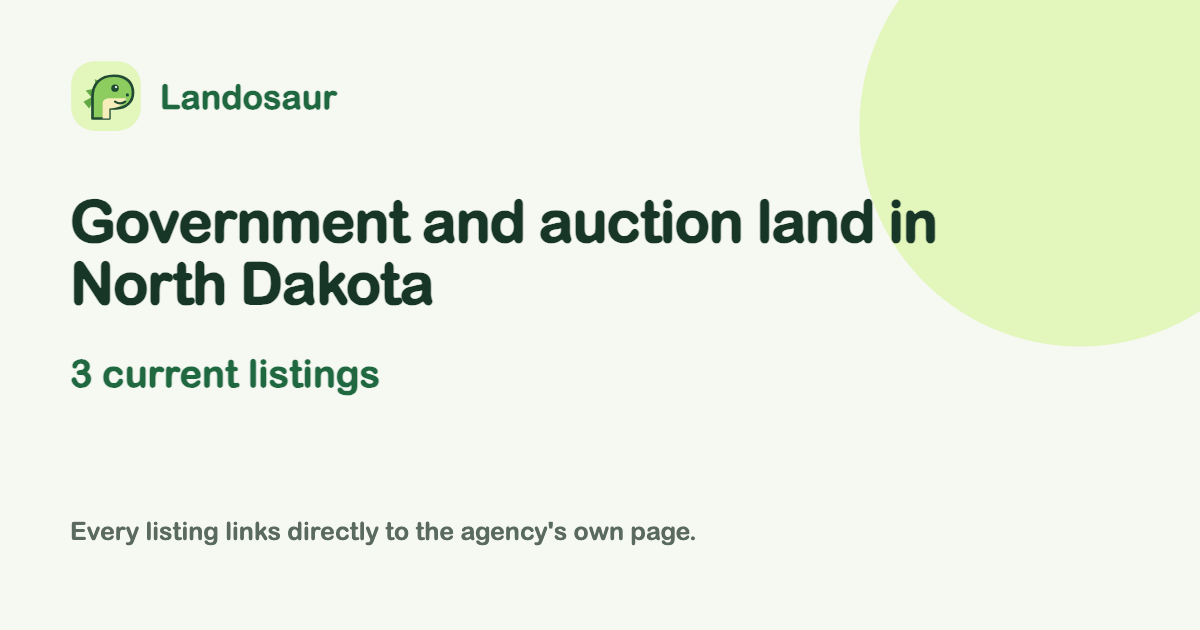
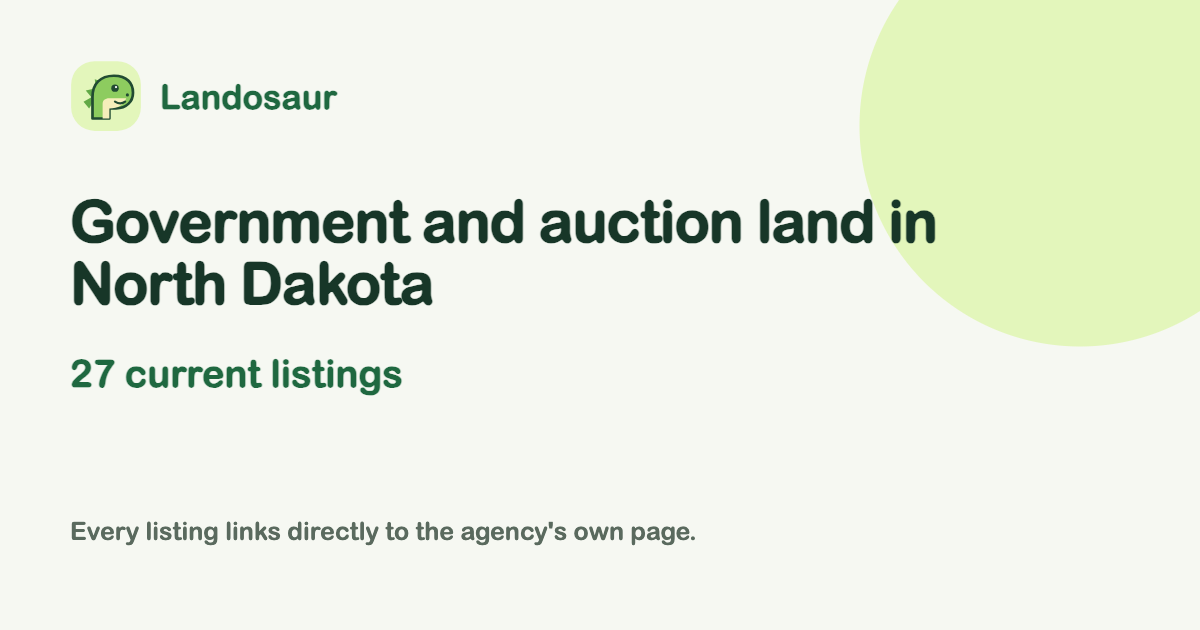
Add verified Killdeer North Prairie municipal homesites

Changed region(s): [[0.0617, 0.573, 0.3392, 0.6333]]

diff --git a/lando/adapters.py b/lando/adapters.py
@@ -198,6 +198,8 @@ def outline_url(listing):
         return one_parcel_url(CHERRYHILL_NJ_GIS, "UNIQUEID='%s'" % listing["apn"].replace("'", "''"))
     if listing["source"] == "salem-nj-offers":
         return one_parcel_url(NJ_COMPOSITE_PARCELS, "PIN_NODUP='%s'" % listing["apn"].replace("'", "''"))
+    if listing["source"] == "killdeer-nd-north-prairie":
+        return one_parcel_url(KILLDEER_ND_GIS, "PID='%s'" % listing["apn"].replace("'", "''"), KILLDEER_ND_FIELDS)
     if listing["source"] == "centerville-sd-harvest-pointe":
         return one_parcel_url(CENTERVILLE_SD_GIS, "PARCEL='%s'" % listing["apn"].replace("'", "''"), CENTERVILLE_SD_FIELDS)
     if listing["source"] == "conrad-mt-industrial-park":
@@ -10674,7 +10676,72 @@ def centerville_sd_harvest_pointe(fetch, now, warn):
     return rows, {"complete": True, "upstream_total": len(CENTERVILLE_SD_PRICES)}
 
 
+KILLDEER_ND_SALE = ("https://killdeer.com/index.asp?SEC=3DEA9AA9-3FEC-4D28-8019-402F445152CE"
+                   "&DE=13018AB4-7A1B-4B0F-B9F3-0B80CE336571")
+KILLDEER_ND_MAP = ("https://killdeer.com/vertical/Sites/%7B5BBD2810-FFAB-41CE-93F8-FCE368158911%7D/"
+                  "uploads/North_Prairie_Addition_Lot_Sign_-_Updated_Lot_Availablity_Revised_Web.jpg")
[1 lines of base64/hex data omitted]
+KILLDEER_ND_COVENANTS = "https://killdeer.com/uploads/dm/7991/North_Prairie_Addition_Covenants"
+KILLDEER_ND_GIS = "https://services.arcgis.com/4YineAQdtmx0tv46/arcgis/rest/services/Parcel_DunnND/FeatureServer/0/query"
+KILLDEER_ND_FIELDS = ("PID,SubdivisionPlat,Lot,Block,PrimaryParcelUse,TaxRollYear,PropertyAddress,"
+                      "ResidentialStructureValue,CommercialStructureValue,ExemptStructureValue,NumberStructures")
+# Square footage printed on the city’s reviewed availability map. The city asks $1 per square foot.
+# Includes neither the sold or pending lots nor frontage with conflicting parcel classifications.
+KILLDEER_ND_SQFT = {
+    (1, 2): 14049, (1, 3): 13037, (1, 4): 13041, (1, 5): 13046, (1, 6): 12880,
+    (2, 2): 14214, (2, 3): 14214, (2, 4): 14214, (2, 5): 14214, (2, 6): 14214, (2, 7): 14214, (2, 8): 14210,
+    (3, 1): 13581, (3, 2): 12524, (3, 3): 12424, (3, 4): 12644, (3, 5): 23955, (3, 6): 16537,
+    (3, 7): 13462, (3, 8): 11800, (3, 16): 12416, (3, 17): 12416, (3, 18): 12416, (3, 19): 12244,
+}
+
+
+def killdeer_nd_north_prairie(fetch, now, warn):
+    page = fetch.text(KILLDEER_ND_SALE)
+    if KILLDEER_ND_MAP.rsplit("/", 1)[-1] not in page or "Lot Map" not in clean(page):
+        return [], {"complete": True, "upstream_total": 0}
+    if hashlib.sha256(fetch.bytes(KILLDEER_ND_MAP)).hexdigest() != KILLDEER_ND_MAP_SHA:
+        warn("Killdeer’s updated availability map needs review before carrying its lots or asking prices.")
+        return [], {"complete": True, "upstream_total": 0}
+    holders = ("CITY OF KILLDEER", "KILLDEER CITY OF", "KILLDEER, CITY OF", "KILLDEER CITY",
+               "CITY OF KILLDEER ND", "CITY OF KILLDEER, ND")
+    subdivision = "NORTH PRAIRIE ADDITION"
+    where = f"UPPER(SubdivisionPlat)='{subdivision}' AND UPPER(OwnerName) IN ({quote_list(holders)})"
+    features = _arcgis_query(fetch, KILLDEER_ND_GIS, where, KILLDEER_ND_FIELDS, post=True)
+    seen = Counter(item["attributes"].get("PID") for item in features)
+    rows = []
+    for item in features:
+        a = item["attributes"]
+        pin = a.get("PID")
+        block, lot = number(a.get("Block")), number(a.get("Lot"))
+        sqft = KILLDEER_ND_SQFT.get((block, lot))
+        if (not sqft or not pin or seen[pin] != 1 or a.get("SubdivisionPlat") != subdivision
+                or a.get("PrimaryParcelUse") != "Residential" or a.get("TaxRollYear") != now.year
+                or a.get("NumberStructures") != 0 or a.get("CommercialStructureValue") != 0
+                or a.get("ExemptStructureValue") != 0 or a.get("ResidentialStructureValue") not in (0, None)):
+            continue
+        row = {
+            "id": "nd-killdeer-north-prairie-" + slug(pin), "source": "killdeer-nd-north-prairie",
+            "state": "ND", "county": "Dunn", "locality": "Killdeer", "address": clean(a.get("PropertyAddress")),
+            "apn": pin, "title": f"North Prairie Addition, Block {block:g}, Lot {lot:g}, Killdeer",
+            "acres": round(sqft / 43560, 4), "price": sqft, "price_kind": "asking",
+            "offering": "sale", "status": "listed", "deadline": None, "url": KILLDEER_ND_SALE,
+            "lat": None, "lon": None, "geometry": None,
+            "facts": [fact("availability", "The city’s North Prairie map offers this individually identified vacant lot.", KILLDEER_ND_MAP),
+                      fact("price", f"{sqft:,} square feet at the city’s published asking rate of $1 per square foot.", KILLDEER_ND_MAP),
+                      fact("covenants", "Read the city’s recorded building and use restrictions before applying.", KILLDEER_ND_COVENANTS)],
+            "tags": ["vacant homesite", "city development"],
+        }
+        apply_geometry(row, (item.get("geometry") or {}).get("rings", []), KILLDEER_ND_GIS, "Dunn County")
+        if row["geometry"]:
+            rows.append(row)
+    return rows, {"complete": True, "upstream_total": len(KILLDEER_ND_SQFT)}
+
+
 SOURCES = [
+    {"id": "killdeer-nd-north-prairie", "name": "Killdeer North Prairie Addition vacant homesites",
+     "agency": "City of Killdeer, North Dakota", "url": KILLDEER_ND_SALE, "state": "ND",
+     "run": killdeer_nd_north_prairie, "requires_sale_match": True,
+     "about": "Homesites marked available on the city’s current lot map, matched to municipal parcels in Dunn County’s vacant parcel roll."},
     {"id": "centerville-sd-harvest-pointe", "name": "Centerville Harvest Pointe vacant homesites",
      "agency": "Centerville Development Corporation, South Dakota", "url": CENTERVILLE_SD_SALES, "state": "SD",
      "run": centerville_sd_harvest_pointe, "requires_sale_match": True,
@@ -11266,6 +11333,10 @@ SOURCES = [
      "about": "Current Panguingue Creek residential lots with published fixed prices, acreage and access terms."},
 ]
 NOT_CARRIED = [
+    ("Dunn County assessor property-card search", "https://dunn.northdakotaassessors.com/search/res/",
+     "The property search returned HTTP 403. The official county ArcGIS parcel layer is carried."),
+    ("Chamberlain’s old Smokey Groves plat hostname", "https://chamberlainwebpage.users.midstatesd.net/",
+     "The TLS certificate did not match the host, so robots rules could not be verified."),
     ("Vermillion Jolley Addition city sale documents", "https://www.vermillion.us/m/newsflash/home/detail/840",
      "The city site returns HTTP 403 for robots.txt."),
     ("Clark County, South Dakota, parcel assessor", "https://clark.sdcounties.org/director-of-equalization/",

diff --git a/tests/test_adapters.py b/tests/test_adapters.py
@@ -45,6 +45,26 @@ class StLouisTest(unittest.TestCase):
 
 
 class ActiveSaleDirectoryTest(unittest.TestCase):
+    def test_killdeer_checks_current_marked_map_and_only_carries_vacant_offers(self):
+        fetch = unittest.mock.Mock()
+        fetch.text.return_value = f'<img src="{adapters.KILLDEER_ND_MAP}"><h1>Lot Map</h1>'
+        fetch.bytes.return_value = b"verified city sale map"
+        parcel = {"SubdivisionPlat": "NORTH PRAIRIE ADDITION", "PrimaryParcelUse": "Residential",
+                  "TaxRollYear": NOW.year, "NumberStructures": 0, "CommercialStructureValue": 0,
+                  "ExemptStructureValue": 0, "ResidentialStructureValue": None, "PropertyAddress": "720 N PRAIRIE CT"}
+        features = [
+            {"attributes": dict(parcel, PID=f"1083013{lot:02d}", Block=3, Lot=str(lot), NumberStructures=structures),
+             "geometry": {"rings": [[[-102.7, 46.8], [-102.6995, 46.8], [-102.7, 46.8005], [-102.7, 46.8]]]}}
+            for lot, structures in ((2, 0), (3, 1), (9, 0), (11, 0))
+        ]
+        with patch.object(adapters, "KILLDEER_ND_MAP_SHA", adapters.hashlib.sha256(fetch.bytes.return_value).hexdigest()), patch.object(
+            adapters, "_arcgis_query", return_value=features
+        ):
+            rows, _ = adapters.killdeer_nd_north_prairie(fetch, NOW, self.fail)
+        row, = rows
+        self.assertEqual((row["id"], row["price"], row["acres"]),
+                         ("nd-killdeer-north-prairie-108301302", 12524, round(12524 / 43560, 4)))
+
     def test_centerville_matches_the_marked_sale_map_to_unimproved_county_lots(self):
         fetch = unittest.mock.Mock()
         fetch.text.return_value = 'Lots now available! <a href="/s/Available-Lots.jpg">Current map</a>'

diff --git a/scripts/check_dist.py b/scripts/check_dist.py
@@ -30,7 +30,7 @@ OFFICIAL = {
     "firstpark.com", "cms2.revize.com", "alamosacounty.org", "denaliborough.org", "metroatlantalandbank.org",
     "fultoncountyga.gov", "townofpalmer.com", "ci.florence.or.us", "co.lincoln.or.us", "alaska.edu", "kgbak.us", "sjgov.org",
     "jeffcotax.com", "cttaxsales.com", "gary.gov", "shastacounty.gov", "albanyga.gov",
-    "visitcentervillesd.com", "belchertown.org", "beatrice.ne.gov", "cityofgregorysd.gov", "mindennebraska.org", "bluehillne.com", "cityofconrad.com",
+    "killdeer.com", "visitcentervillesd.com", "belchertown.org", "beatrice.ne.gov", "cityofgregorysd.gov", "mindennebraska.org", "bluehillne.com", "cityofconrad.com",
     "stlouis-mo.gov", "cosl.org", "wisconsin.gov", "alaskamentalhealthtrust.org",
     "alaska.gov", "buildingdetroit.org", "kclandbank.org", "dgs.ca.gov",
     "chicago.gov", "pghlandbank.org", "louisvilleky.gov", "lucascountylandbank.org",
